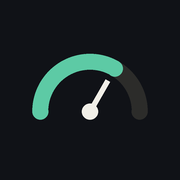
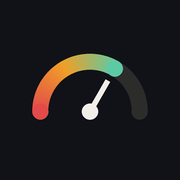
İkon: yay kırmızıdan yeşile geçiyor
Tasarım aynı; dolu kısım ağrıdan iyileşmeye giden bir renk geçişi.
İkon adreslerine ?v=2, önbellek sürümü 9.

Changed region(s): [[0.1667, 0.2778, 0.6111, 0.6667]]

diff --git a/index.html b/index.html
@@ -11,8 +11,8 @@
   <meta name="robots" content="noindex, nofollow">
   <title>Hasta Takip</title>
   <link rel="manifest" href="manifest.webmanifest">
-  <link rel="apple-touch-icon" href="ikon/ikon-180.png">
-  <link rel="icon" href="ikon/ikon-192.png">
+  <link rel="apple-touch-icon" href="ikon/ikon-180.png?v=2">
+  <link rel="icon" href="ikon/ikon-192.png?v=2">
   <link rel="stylesheet" href="css/app.css">
 </head>
 <body>

diff --git a/sw.js b/sw.js
@@ -1,7 +1,7 @@
 // Çevrimdışı çalışma: uygulama dosyaları önbellekte, önce önbellekten.
 // Dosyalardan biri değişince SURUM'u artır — telefon yeni sürümü ancak
 // böyle alır.
-const SURUM = "hasta-takip-8";
+const SURUM = "hasta-takip-9";
 const DOSYALAR = [
   "./",
   "index.html",

diff --git a/ikon/ikon_uret.py b/ikon/ikon_uret.py
@@ -1,4 +1,5 @@
-"""Ana ekran ikonu: koyu zemin üstünde turkuaz gonyometre yayı.
+"""Ana ekran ikonu: koyu zemin üstünde gonyometre yayı. Dolu kısım kırmızıdan
+yeşile geçer (ağrıdan iyileşmeye, pozitif ilerleme); ibre yeşilin ucunda.
 
     python ikon/ikon_uret.py
 """
@@ -9,7 +10,16 @@ from PIL import Image, ImageDraw
 
 ZEMIN = (16, 18, 23)
 GRI = (44, 44, 42)
-TURKUAZ = (93, 202, 165)
+# yayın başından ibreye: kırmızı → turuncu → yeşil (uygulamanın renkleri)
+DURAKLAR = [(0.0, (226, 75, 74)), (0.5, (239, 159, 39)), (1.0, (93, 202, 165))]
+
+
+def renk(t):
+    for (t1, r1), (t2, r2) in zip(DURAKLAR, DURAKLAR[1:]):
+        if t <= t2:
+            k = (t - t1) / (t2 - t1)
+            return tuple(round(a + (b - a) * k) for a, b in zip(r1, r2))
+    return DURAKLAR[-1][1]
 KLASOR = os.path.dirname(os.path.abspath(__file__))
 
 
@@ -23,15 +33,20 @@ def ciz(boyut):
     mx, my = b / 2, b * 0.62
     kutu = [mx - r, my - r, mx + r, my + r]
     c.arc(kutu, 180, 360, fill=GRI, width=kal)
-    c.arc(kutu, 180, 300, fill=TURKUAZ, width=kal)
-    for aci in (180, 300):  # yuvarlak uçlar
-        x = mx + (r - kal / 2) * math.cos(math.radians(aci))
-        y = my + (r - kal / 2) * math.sin(math.radians(aci))
-        renk = TURKUAZ
-        c.ellipse([x - kal / 2, y - kal / 2, x + kal / 2, y + kal / 2], fill=renk)
     x = mx + (r - kal / 2) * math.cos(math.radians(360))
     y = my
     c.ellipse([x - kal / 2, y - kal / 2, x + kal / 2, y + kal / 2], fill=GRI)
+    # renk geçişi: yarım derecelik dilimler, araları boşluk kalmasın diye üst üste
+    BAS, SON = 180, 300
+    adim = 0.5
+    a = BAS
+    while a < SON:
+        c.arc(kutu, a, min(SON, a + adim * 2), fill=renk((a - BAS) / (SON - BAS)), width=kal)
+        a += adim
+    for aci, t in ((BAS, 0.0), (SON, 1.0)):  # yuvarlak uçlar
+        x = mx + (r - kal / 2) * math.cos(math.radians(aci))
+        y = my + (r - kal / 2) * math.sin(math.radians(aci))
+        c.ellipse([x - kal / 2, y - kal / 2, x + kal / 2, y + kal / 2], fill=renk(t))
     # merkez nokta ve ibre
     ux = mx + r * 0.62 * math.cos(math.radians(300))
     uy = my + r * 0.62 * math.sin(math.radians(300))

diff --git a/CLAUDE.md b/CLAUDE.md
@@ -125,7 +125,7 @@ klasör olduğu gibi yüklenir.
 | `sw.js` | çevrimdışı önbellek — **dosya değişince `SURUM`'u artır** |
 | `vendor/morphdom.js` | morphdom 2.7.4 (ESM): `ciz()` ekranı baştan yazmaz, yalnızca değişeni günceller — kullanıcı "sayfa yenileniyormuş gibi" yanıp sönmeden şikâyet etti. Bu yüzden `surukle()` aynı öğeye tekrar tekrar bağlanabiliyor (dinleyici bir kez, seçenek her çizimde) |
 | `vendor/xlsx.full.min.js` | SheetJS 0.20.3 (cdn.sheetjs.com; npm'deki eski) |
-| `ikon/ikon_uret.py` | ana ekran ikonu (Pillow) |
+| `ikon/ikon_uret.py` | ana ekran ikonu (Pillow): gonyometre, dolu yay **kırmızı → turuncu → yeşil** (kullanıcı: "pozitif ilerleme"). iOS ikonu ana ekrana eklerken bir kez alır; değişince `?v=N` artır. **Telefondaki ikonu yenilemek = sil + yeniden ekle = VERİ GİDER** → önce yedek |
 
 **SheetJS ile renk:** `XLSX.read(veri, { cellStyles: true, sheetStubs: true })`.
 Dolgu `hucre.s.fgColor.rgb` ("000080"). Dolgusuz boş hücrede `s` YOK.
